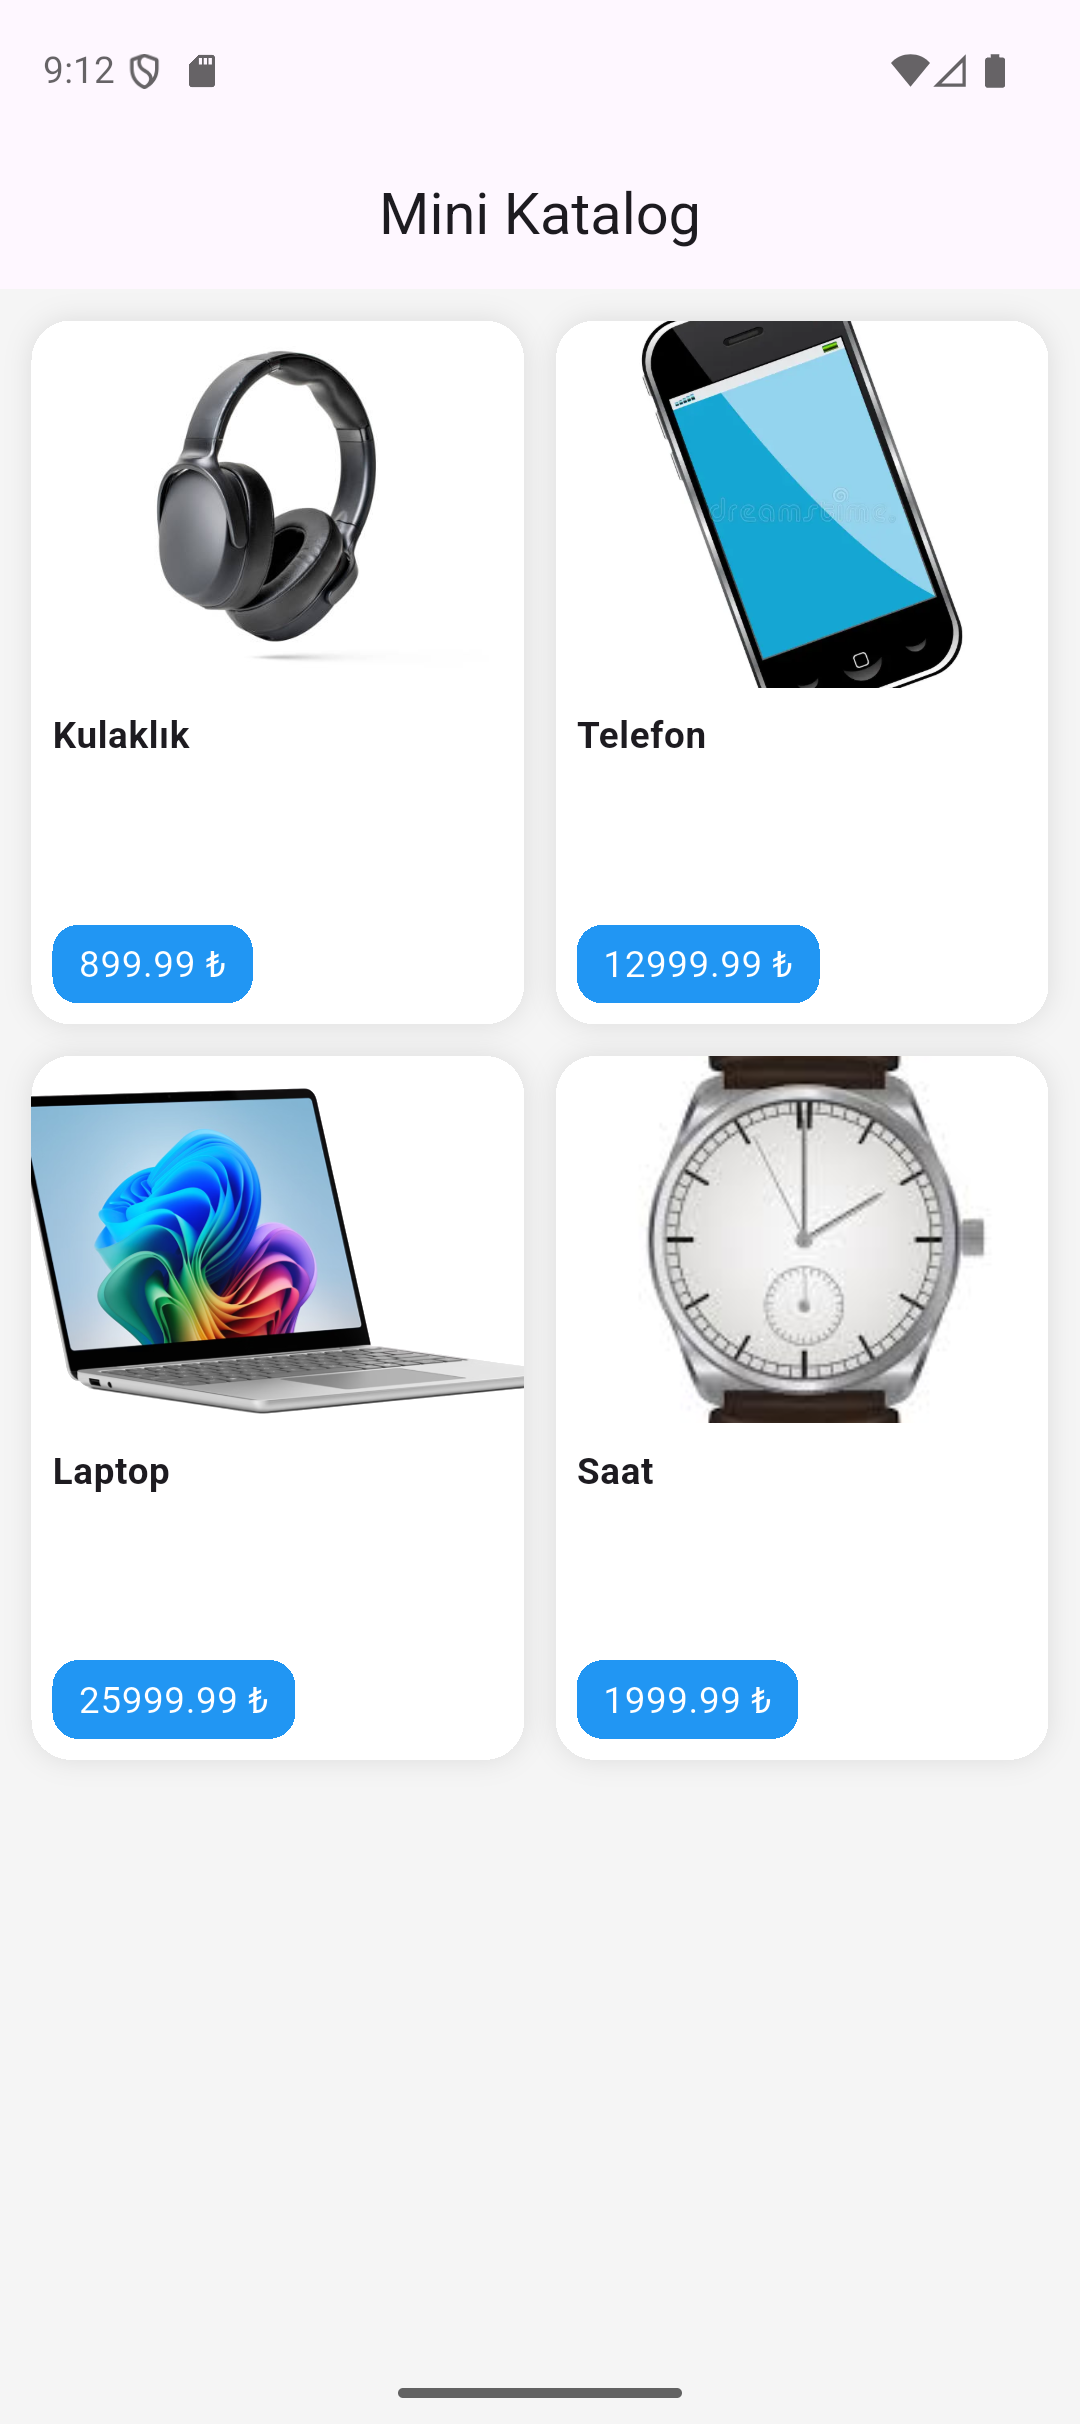
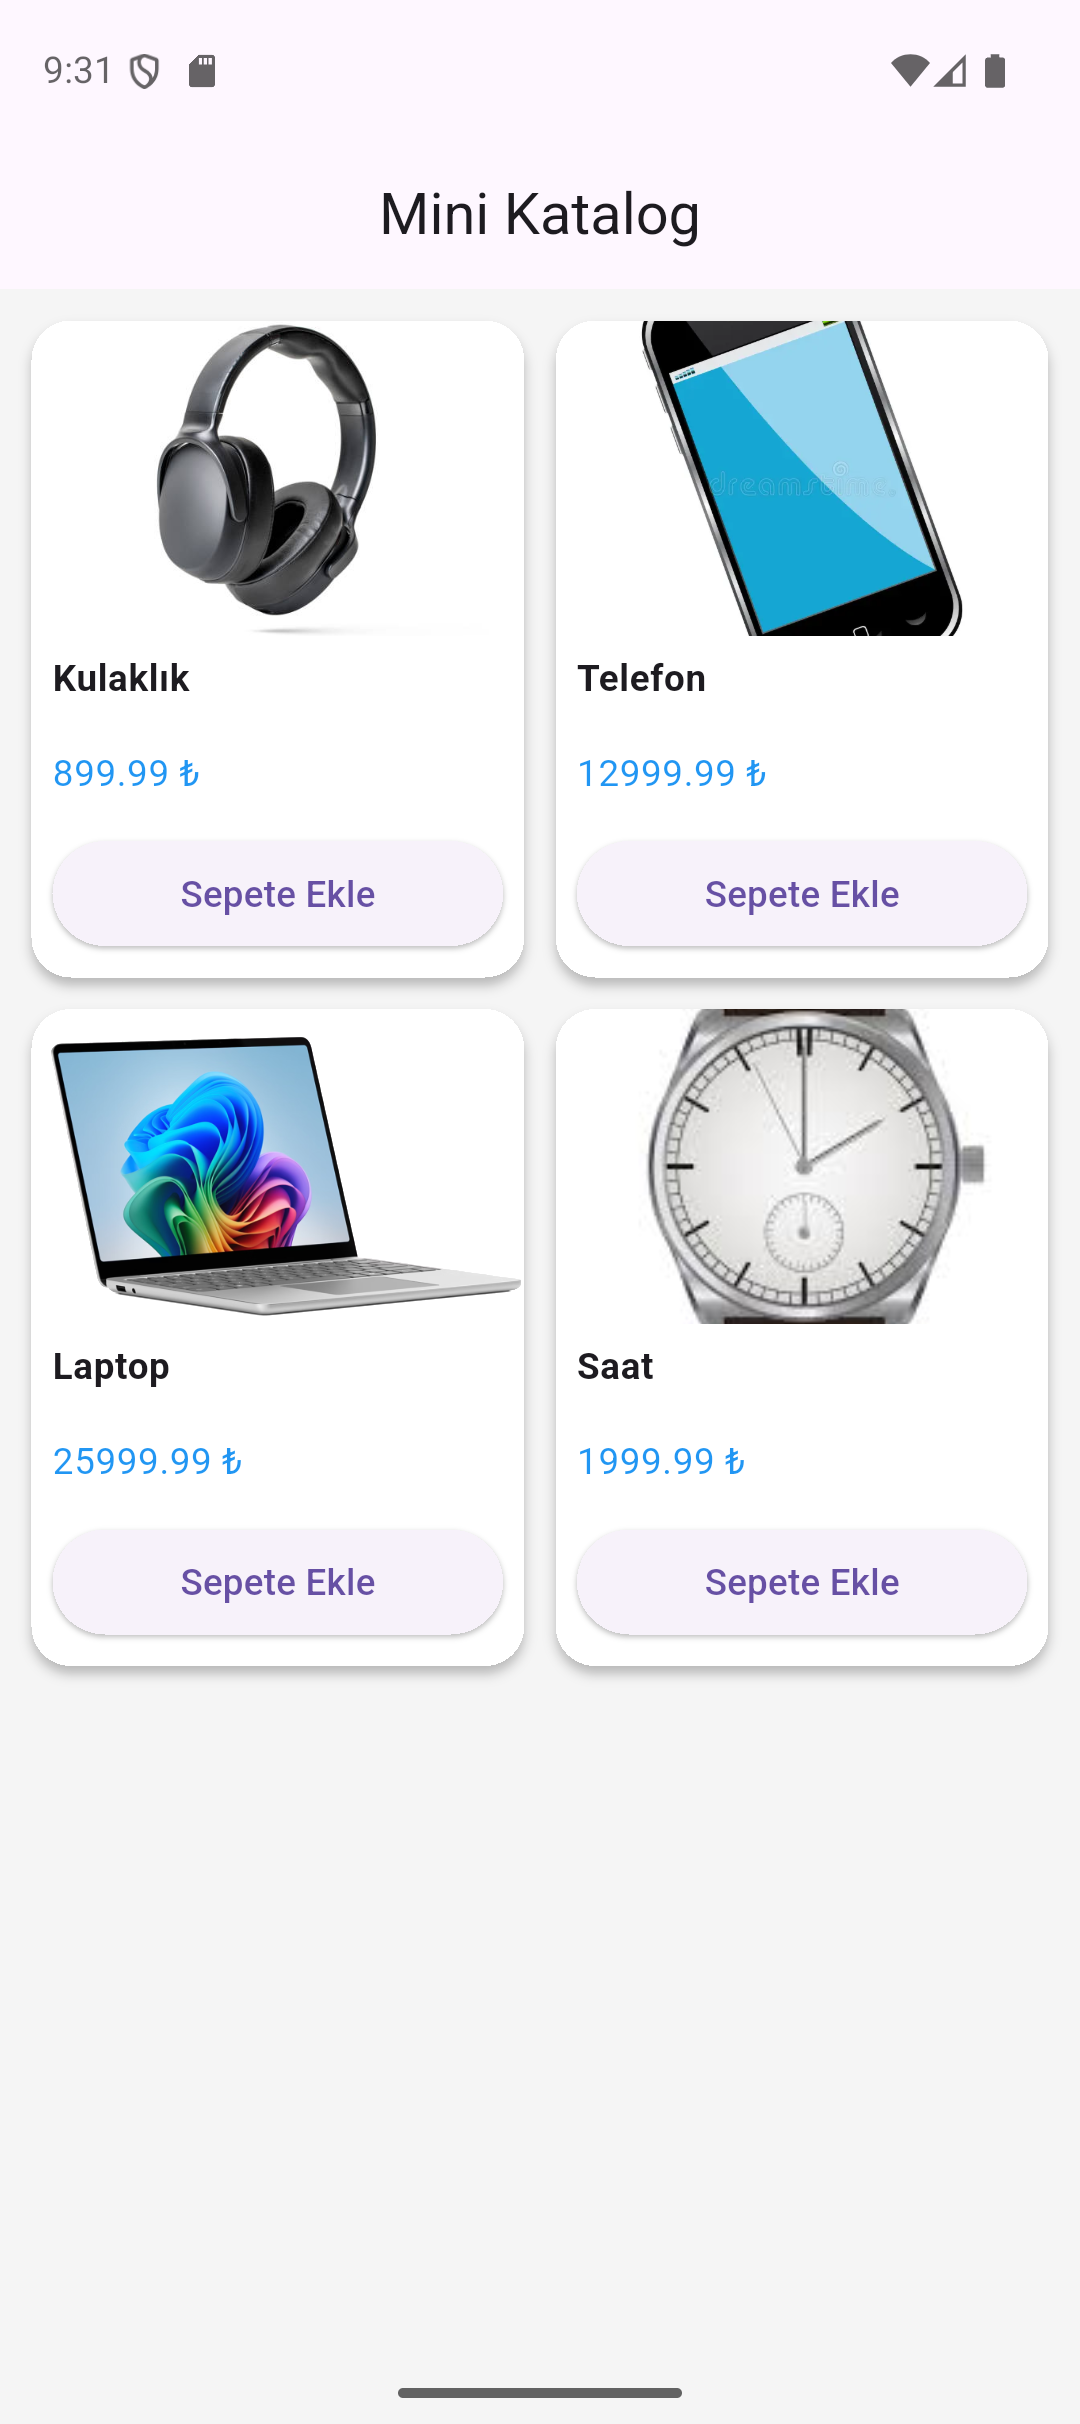
sepet sim eklendi

diff --git a/lib/pages/home_page.dart b/lib/pages/home_page.dart
@@ -24,36 +24,32 @@ class HomePage extends StatelessWidget {
         itemCount: products.length,
         gridDelegate: const SliverGridDelegateWithFixedCrossAxisCount(
           crossAxisCount: 2,
-          childAspectRatio: 0.7,
+          childAspectRatio: 0.75,
           crossAxisSpacing: 12,
           mainAxisSpacing: 12,
         ),
         itemBuilder: (ctx, index) {
           final product = products[index];
 
-          return GestureDetector(
-            onTap: () {
-              Navigator.push(
-                context,
-                MaterialPageRoute(
-                  builder: (_) => DetailPage(product: product),
-                ),
-              );
-            },
-            child: Container(
-              decoration: BoxDecoration(
-                borderRadius: BorderRadius.circular(15),
-                color: Colors.white,
-                boxShadow: [
-                  BoxShadow(
-                    color: Colors.black.withOpacity(0.1),
-                    blurRadius: 8,
-                  )
-                ],
-              ),
+          return Material(
+            borderRadius: BorderRadius.circular(15),
+            color: Colors.white,
+            elevation: 3,
+            child: InkWell(
+              borderRadius: BorderRadius.circular(15),
+              onTap: () {
+                // Detay sayfasına git
+                Navigator.push(
+                  context,
+                  MaterialPageRoute(
+                    builder: (_) => DetailPage(product: product),
+                  ),
+                );
+              },
               child: Column(
                 crossAxisAlignment: CrossAxisAlignment.start,
                 children: [
+                  // IMAGE
                   Hero(
                     tag: product.id,
                     child: ClipRRect(
@@ -62,35 +58,51 @@ class HomePage extends StatelessWidget {
                       ),
                       child: Image.asset(
                         product.image,
-                        height: 140,
+                        height: 120,
                         width: double.infinity,
                         fit: BoxFit.cover,
                       ),
                     ),
                   ),
-                  const SizedBox(height: 8),
+
+                  const SizedBox(height: 6),
+
+                  // TITLE
                   Padding(
                     padding: const EdgeInsets.symmetric(horizontal: 8),
                     child: Text(
                       product.title,
-                      style: const TextStyle(
-                        fontWeight: FontWeight.bold,
-                      ),
+                      style: const TextStyle(fontWeight: FontWeight.bold),
                     ),
                   ),
+
                   const Spacer(),
+
+                  // PRICE + BUTTON
+                  Padding(
+                    padding: const EdgeInsets.symmetric(horizontal: 8),
+                    child: Text(
+                      "${product.price} ₺",
+                      style: const TextStyle(color: Colors.blue),
+                    ),
+                  ),
+
+                  const SizedBox(height: 4),
+
                   Padding(
                     padding: const EdgeInsets.all(8),
-                    child: Container(
-                      padding: const EdgeInsets.symmetric(
-                          horizontal: 10, vertical: 5),
-                      decoration: BoxDecoration(
-                        color: Colors.blue,
-                        borderRadius: BorderRadius.circular(10),
-                      ),
-                      child: Text(
-                        "${product.price} ₺",
-                        style: const TextStyle(color: Colors.white),
+                    child: SizedBox(
+                      width: double.infinity,
+                      child: ElevatedButton(
+                        onPressed: () {
+                          ScaffoldMessenger.of(context).showSnackBar(
+                            SnackBar(
+                              content: Text(
+                                  "${product.title} sepete eklendi"),
+                            ),
+                          );
+                        },
+                        child: const Text("Sepete Ekle"),
                       ),
                     ),
                   ),

diff --git a/lib/pages/detail_page.dart b/lib/pages/detail_page.dart
@@ -56,7 +56,13 @@ class DetailPage extends StatelessWidget {
                   style: ElevatedButton.styleFrom(
                     padding: const EdgeInsets.symmetric(vertical: 15),
                   ),
-                  onPressed: () {},
+                  onPressed: () {
+                    ScaffoldMessenger.of(context).showSnackBar(
+                      const SnackBar(
+                        content: Text("Ürün sepete eklendi"),
+                      ),
+                    );
+                  },
                   child: const Text("Sepete Ekle"),
                 ),
               ),
